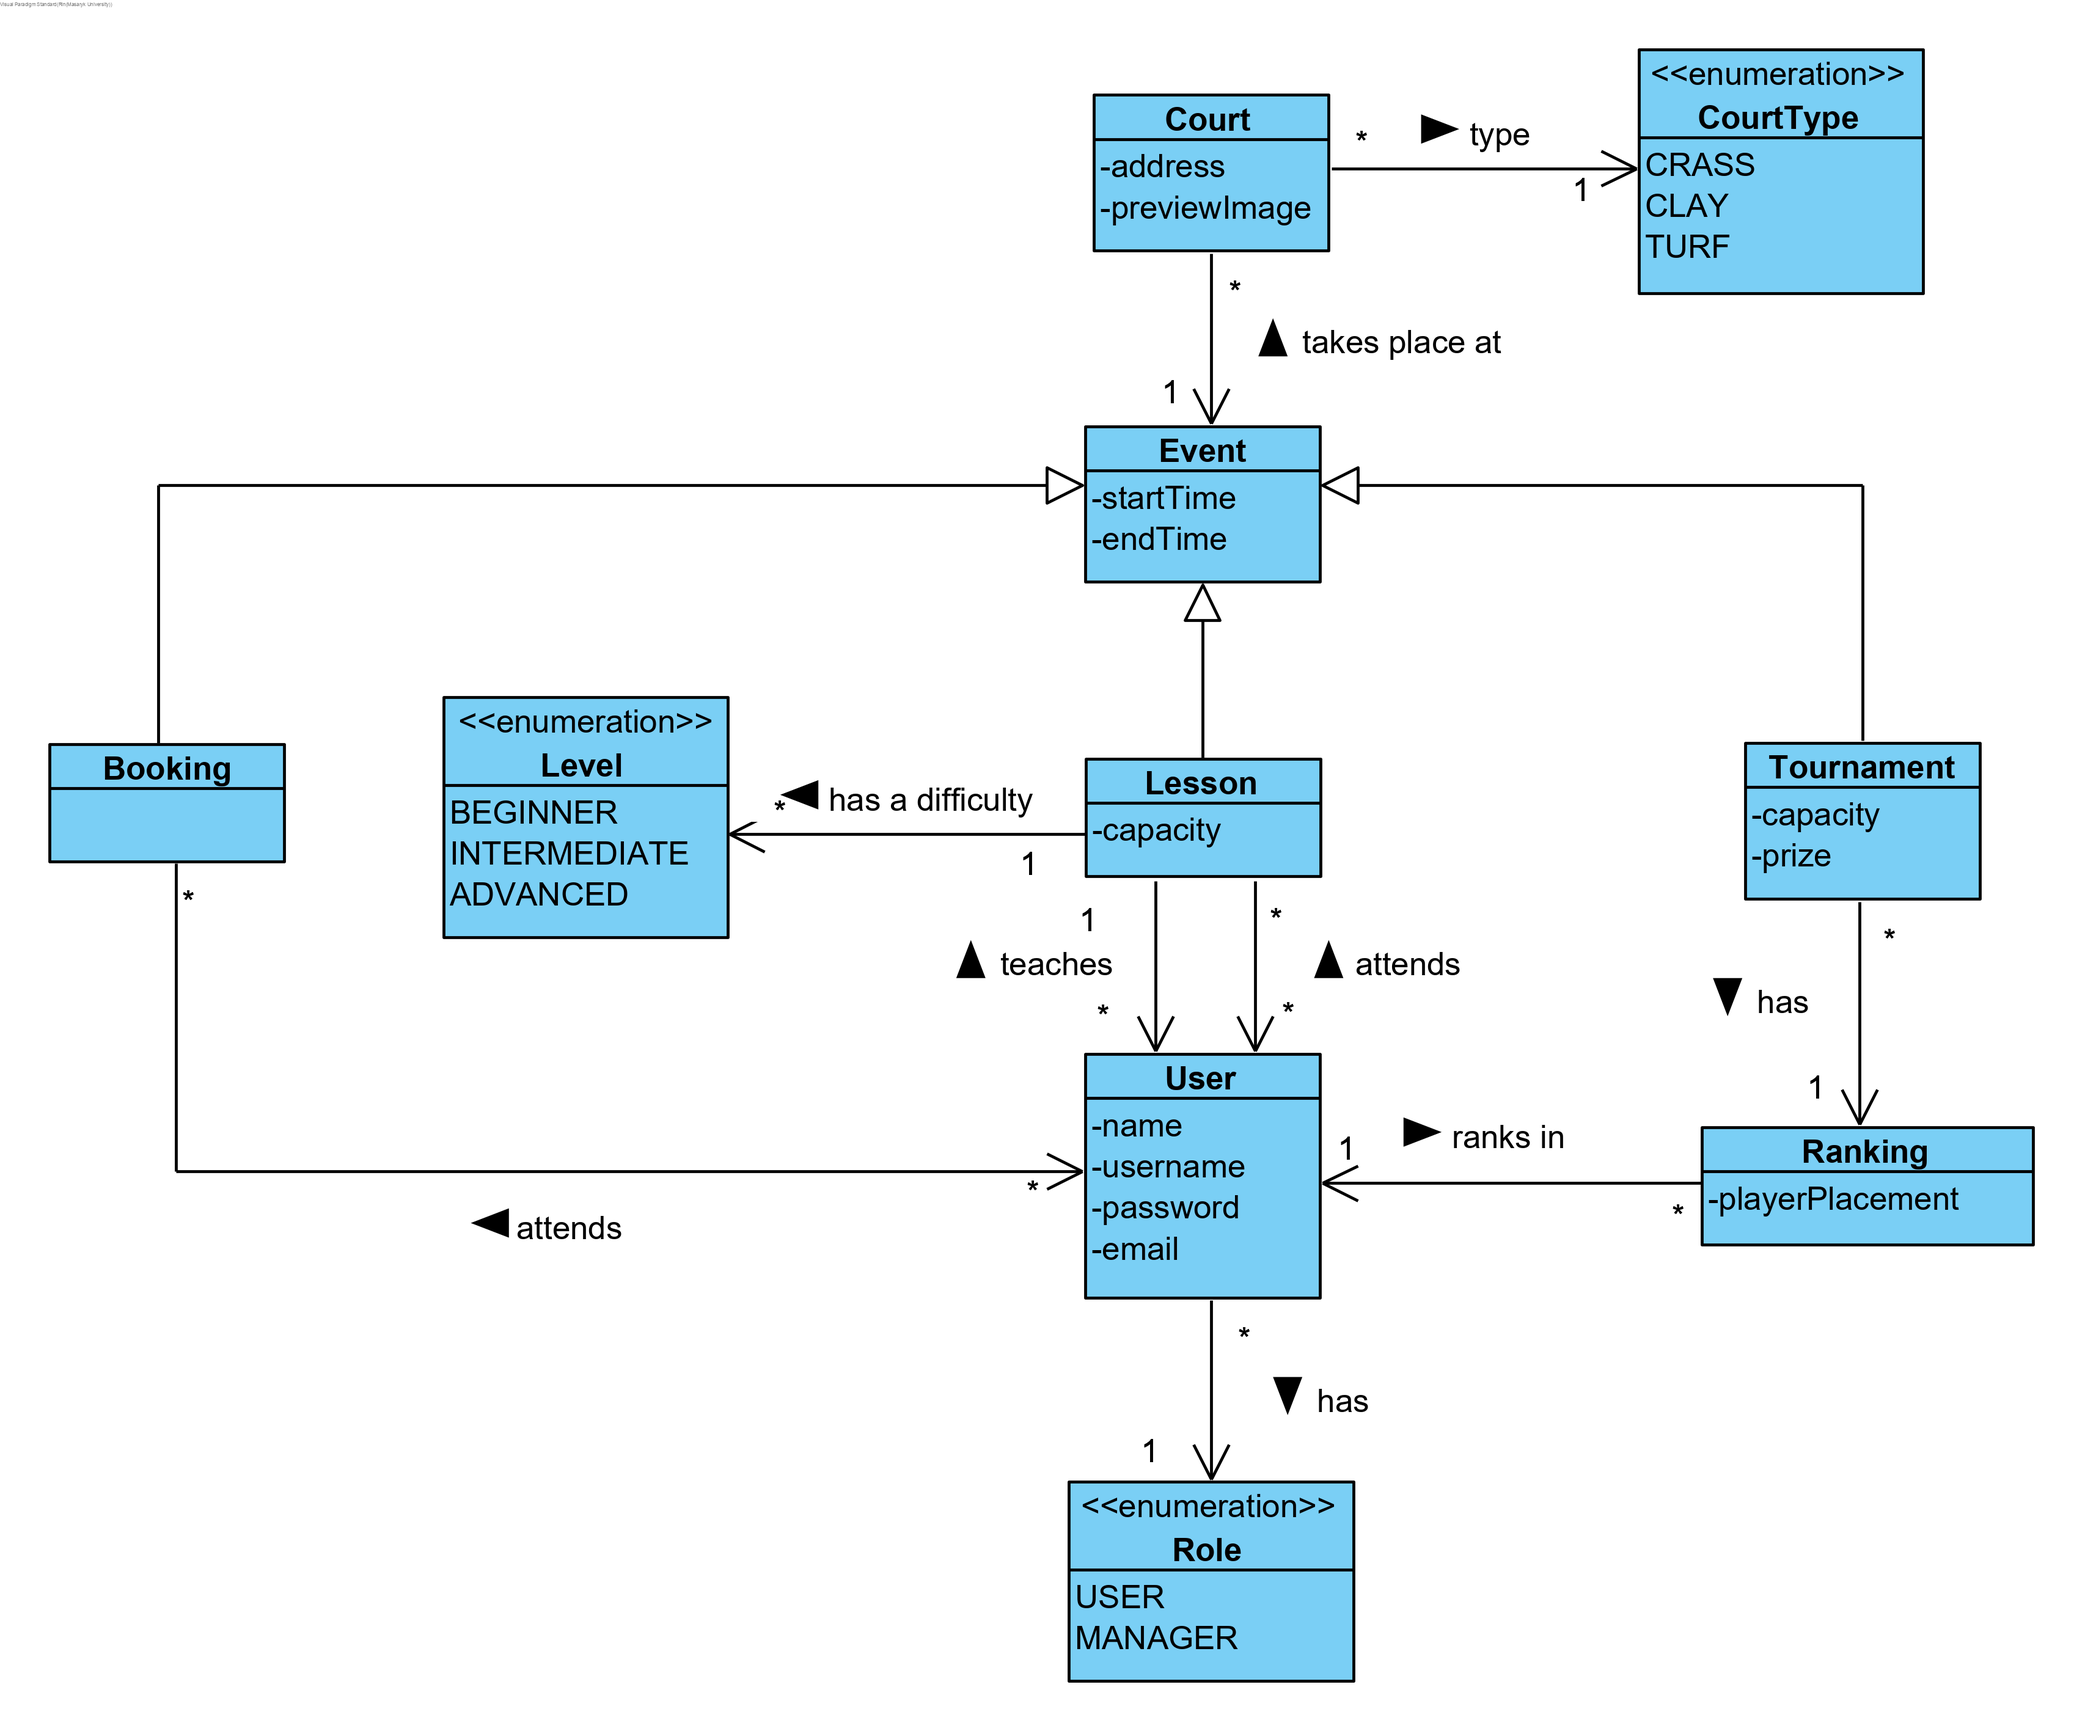
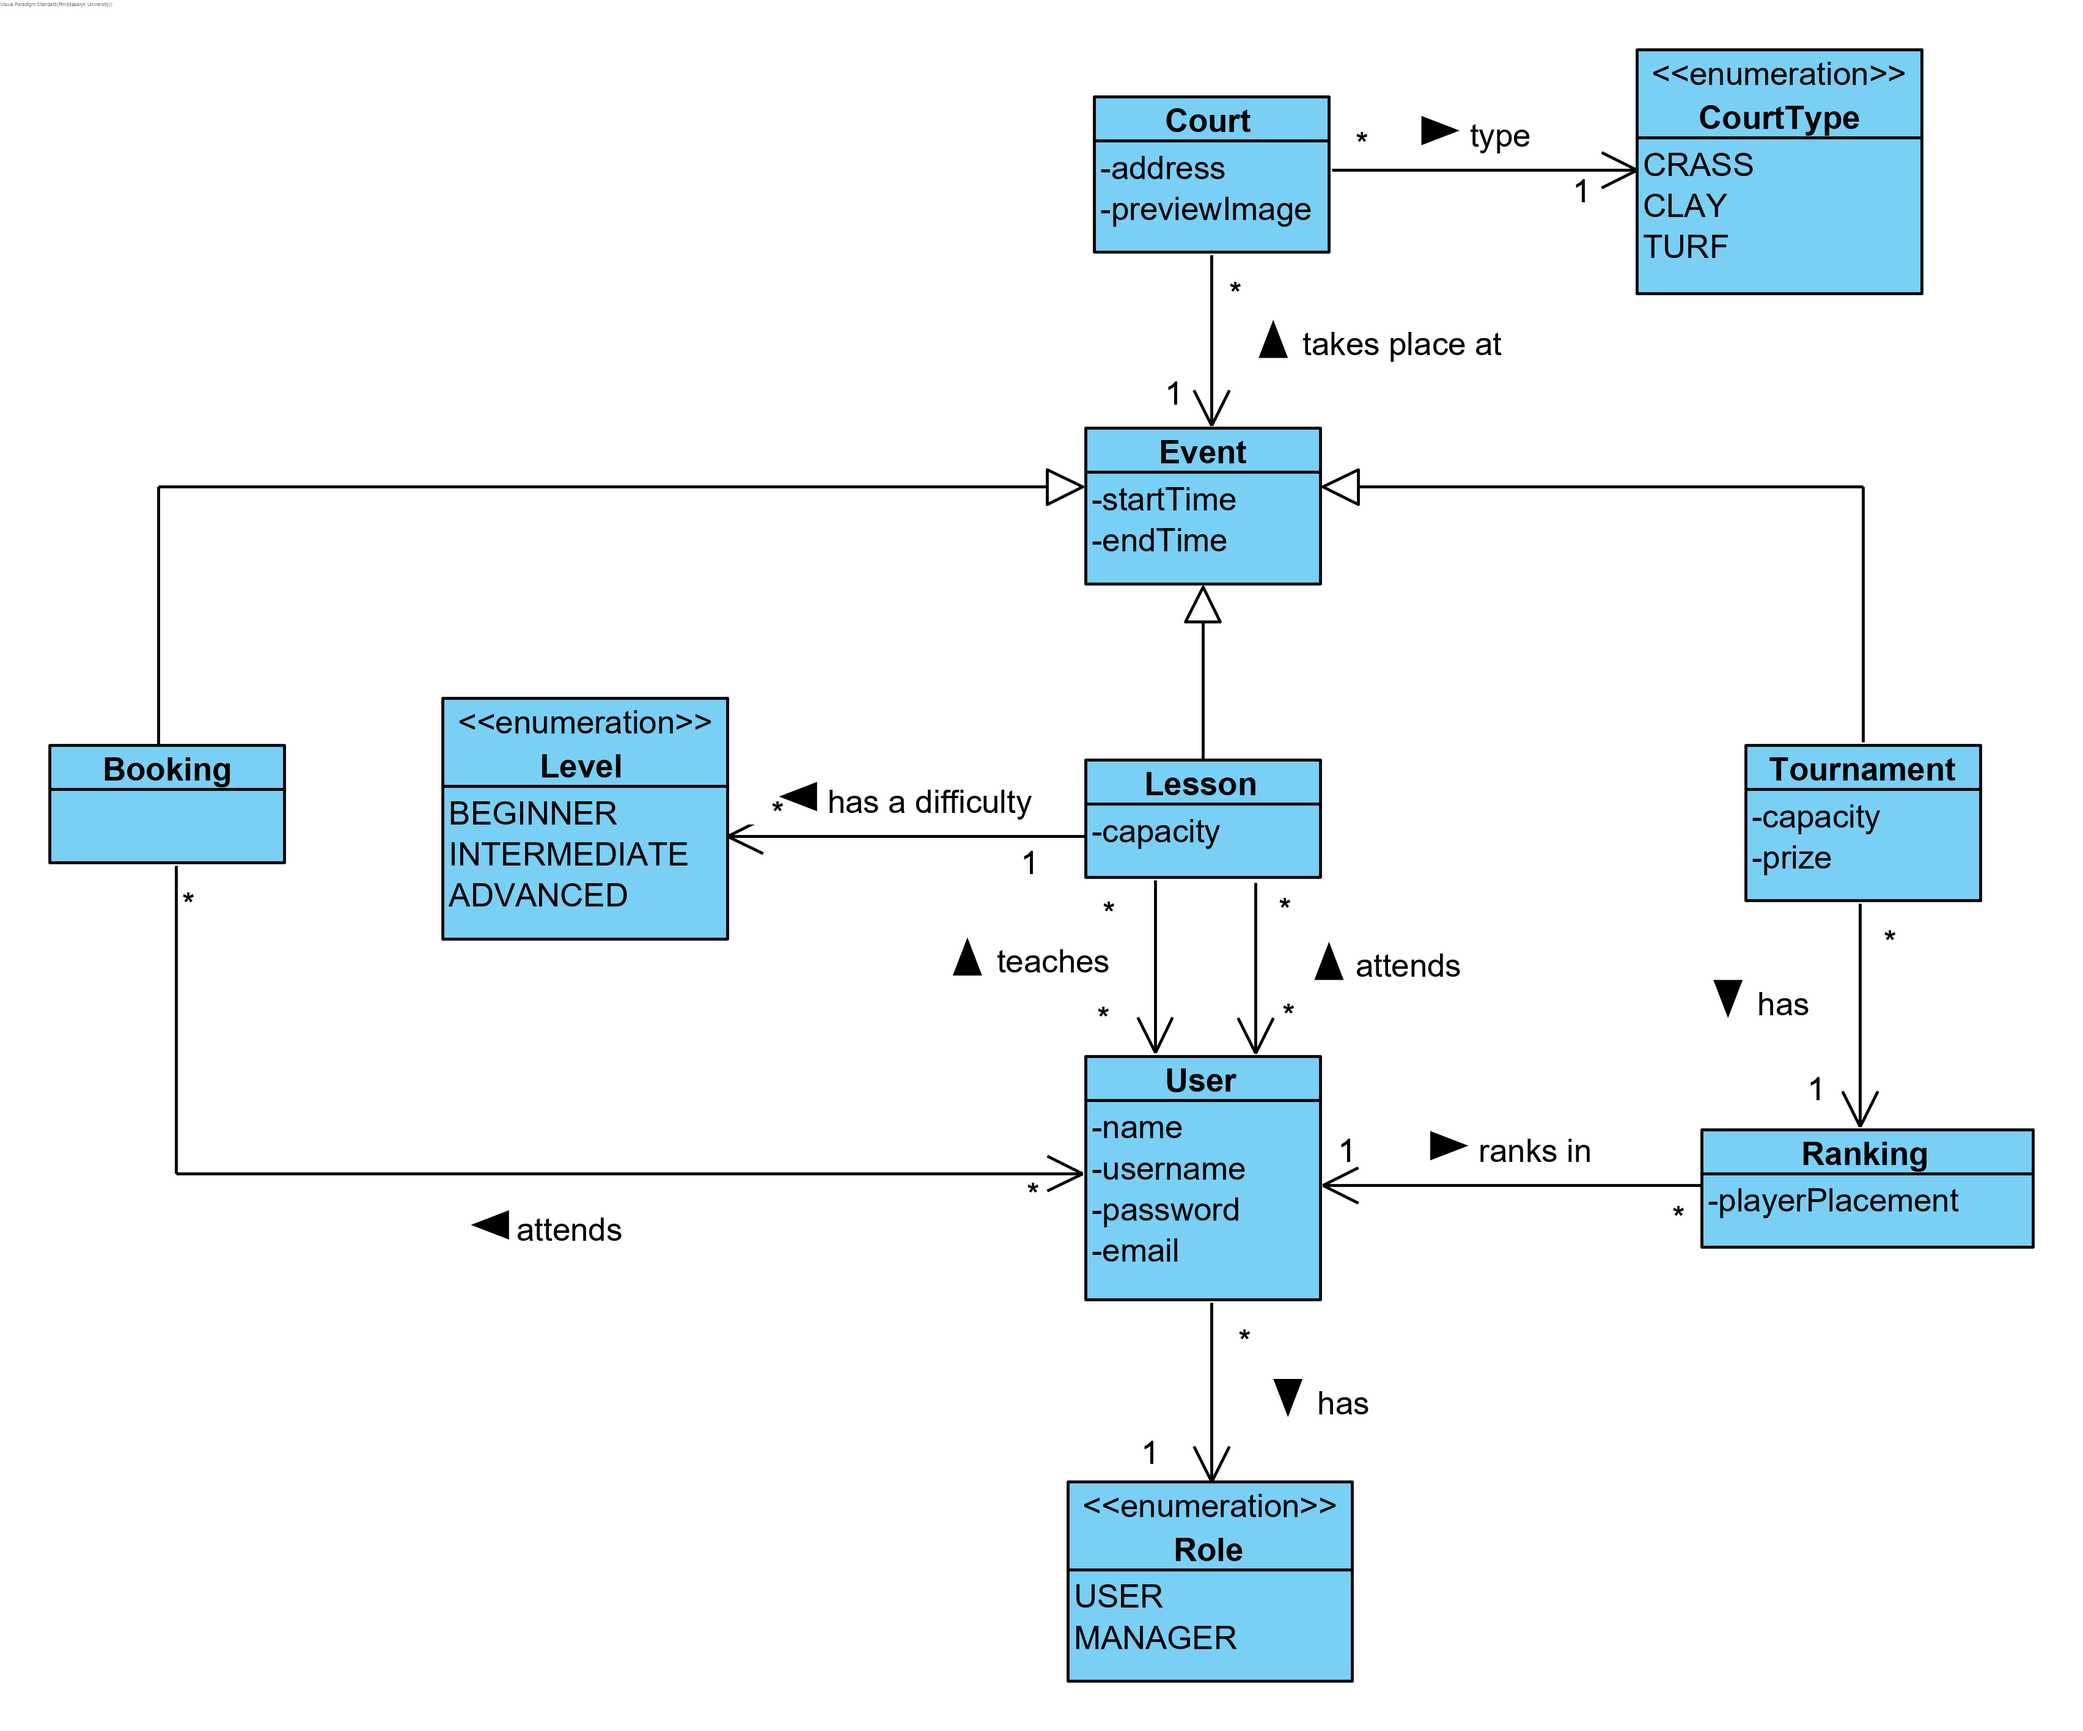
fixed a relatinship between Lesson and User (teaches relation) from 1:N to M:N

diff --git a/src/main/java/tennisclub/entity/User.java b/src/main/java/tennisclub/entity/User.java
@@ -1,9 +1,8 @@
 package tennisclub.entity;
 
-import javax.persistence.Entity;
-import javax.persistence.GeneratedValue;
-import javax.persistence.GenerationType;
-import javax.persistence.Id;
+import javax.persistence.*;
+import java.util.HashSet;
+import java.util.Set;
 
 @Entity
 public class User {
@@ -11,4 +10,9 @@ public class User {
     @GeneratedValue(strategy = GenerationType.SEQUENCE)
     private Long id;
 
+    @ManyToMany
+    private Set<Lesson>  lessonsToTeach = new HashSet<>();
+
+    @ManyToMany
+    private Set<Lesson> lessonsToAttend = new HashSet<>();
 }

diff --git a/src/main/java/tennisclub/entity/Lesson.java b/src/main/java/tennisclub/entity/Lesson.java
@@ -14,7 +14,7 @@ import java.util.Set;
 public class Lesson extends Event{
     private int capacity;
 
-    @OneToMany(mappedBy = "lessonsToTeach")
+    @ManyToMany(mappedBy = "lessonsToTeach")
     private Set<User> teachers;
 
     @ManyToMany(mappedBy = "lessonsToAttend")
